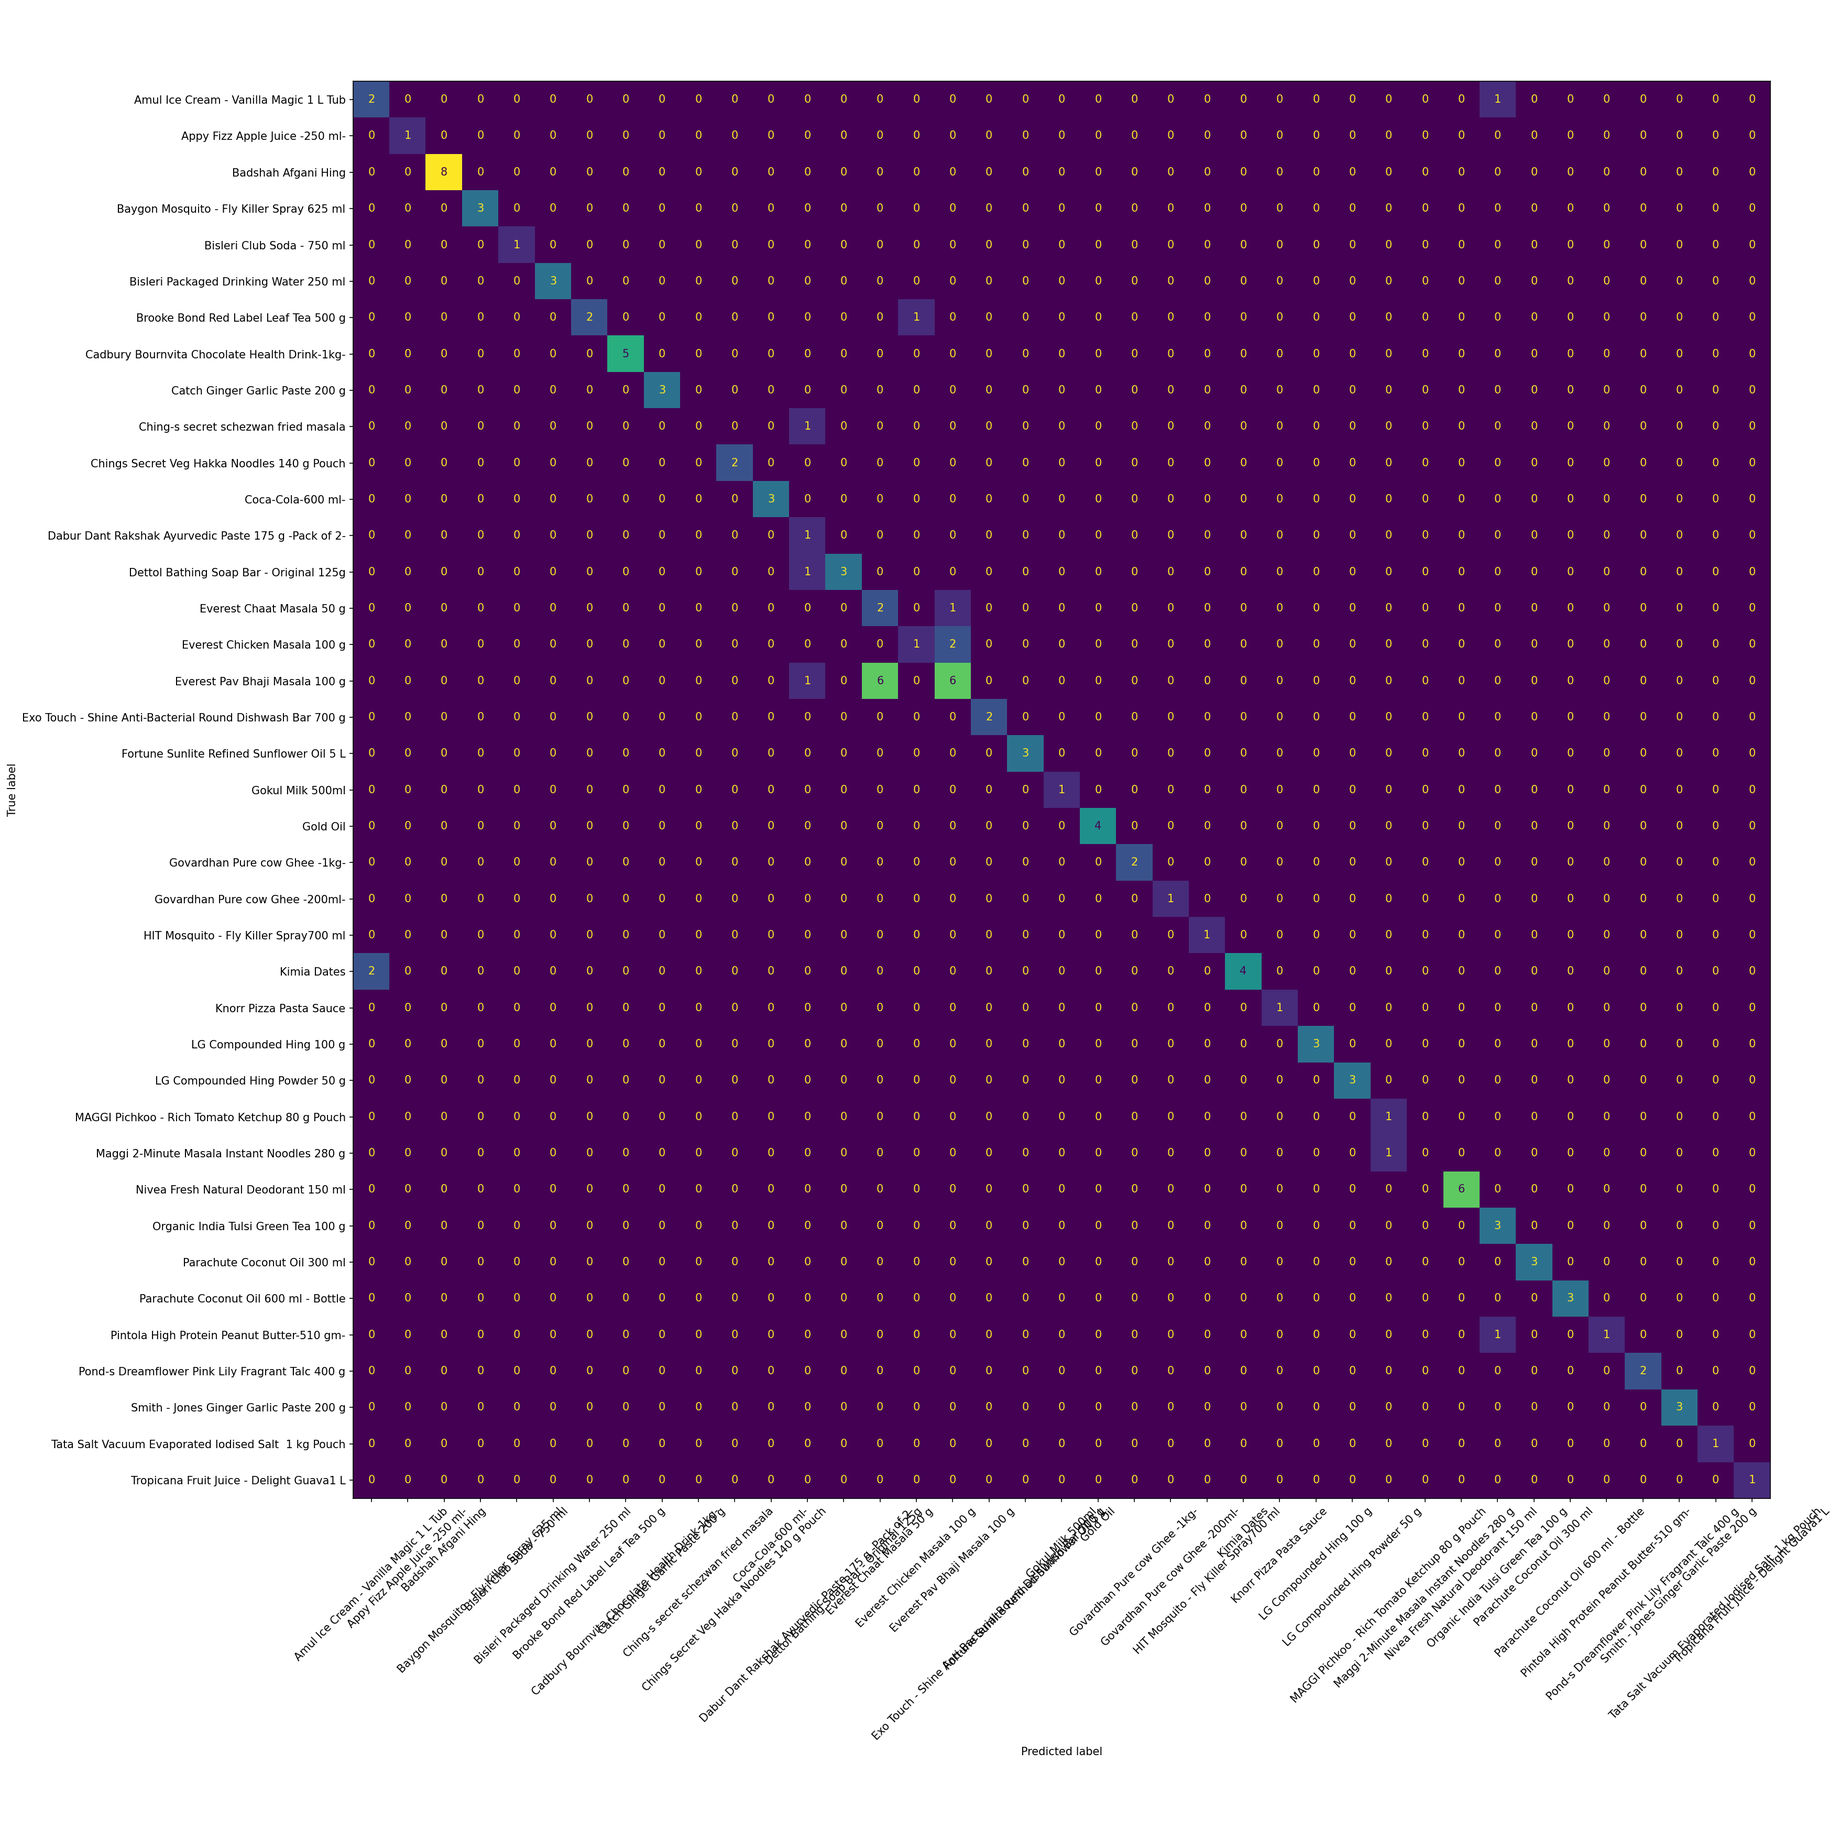
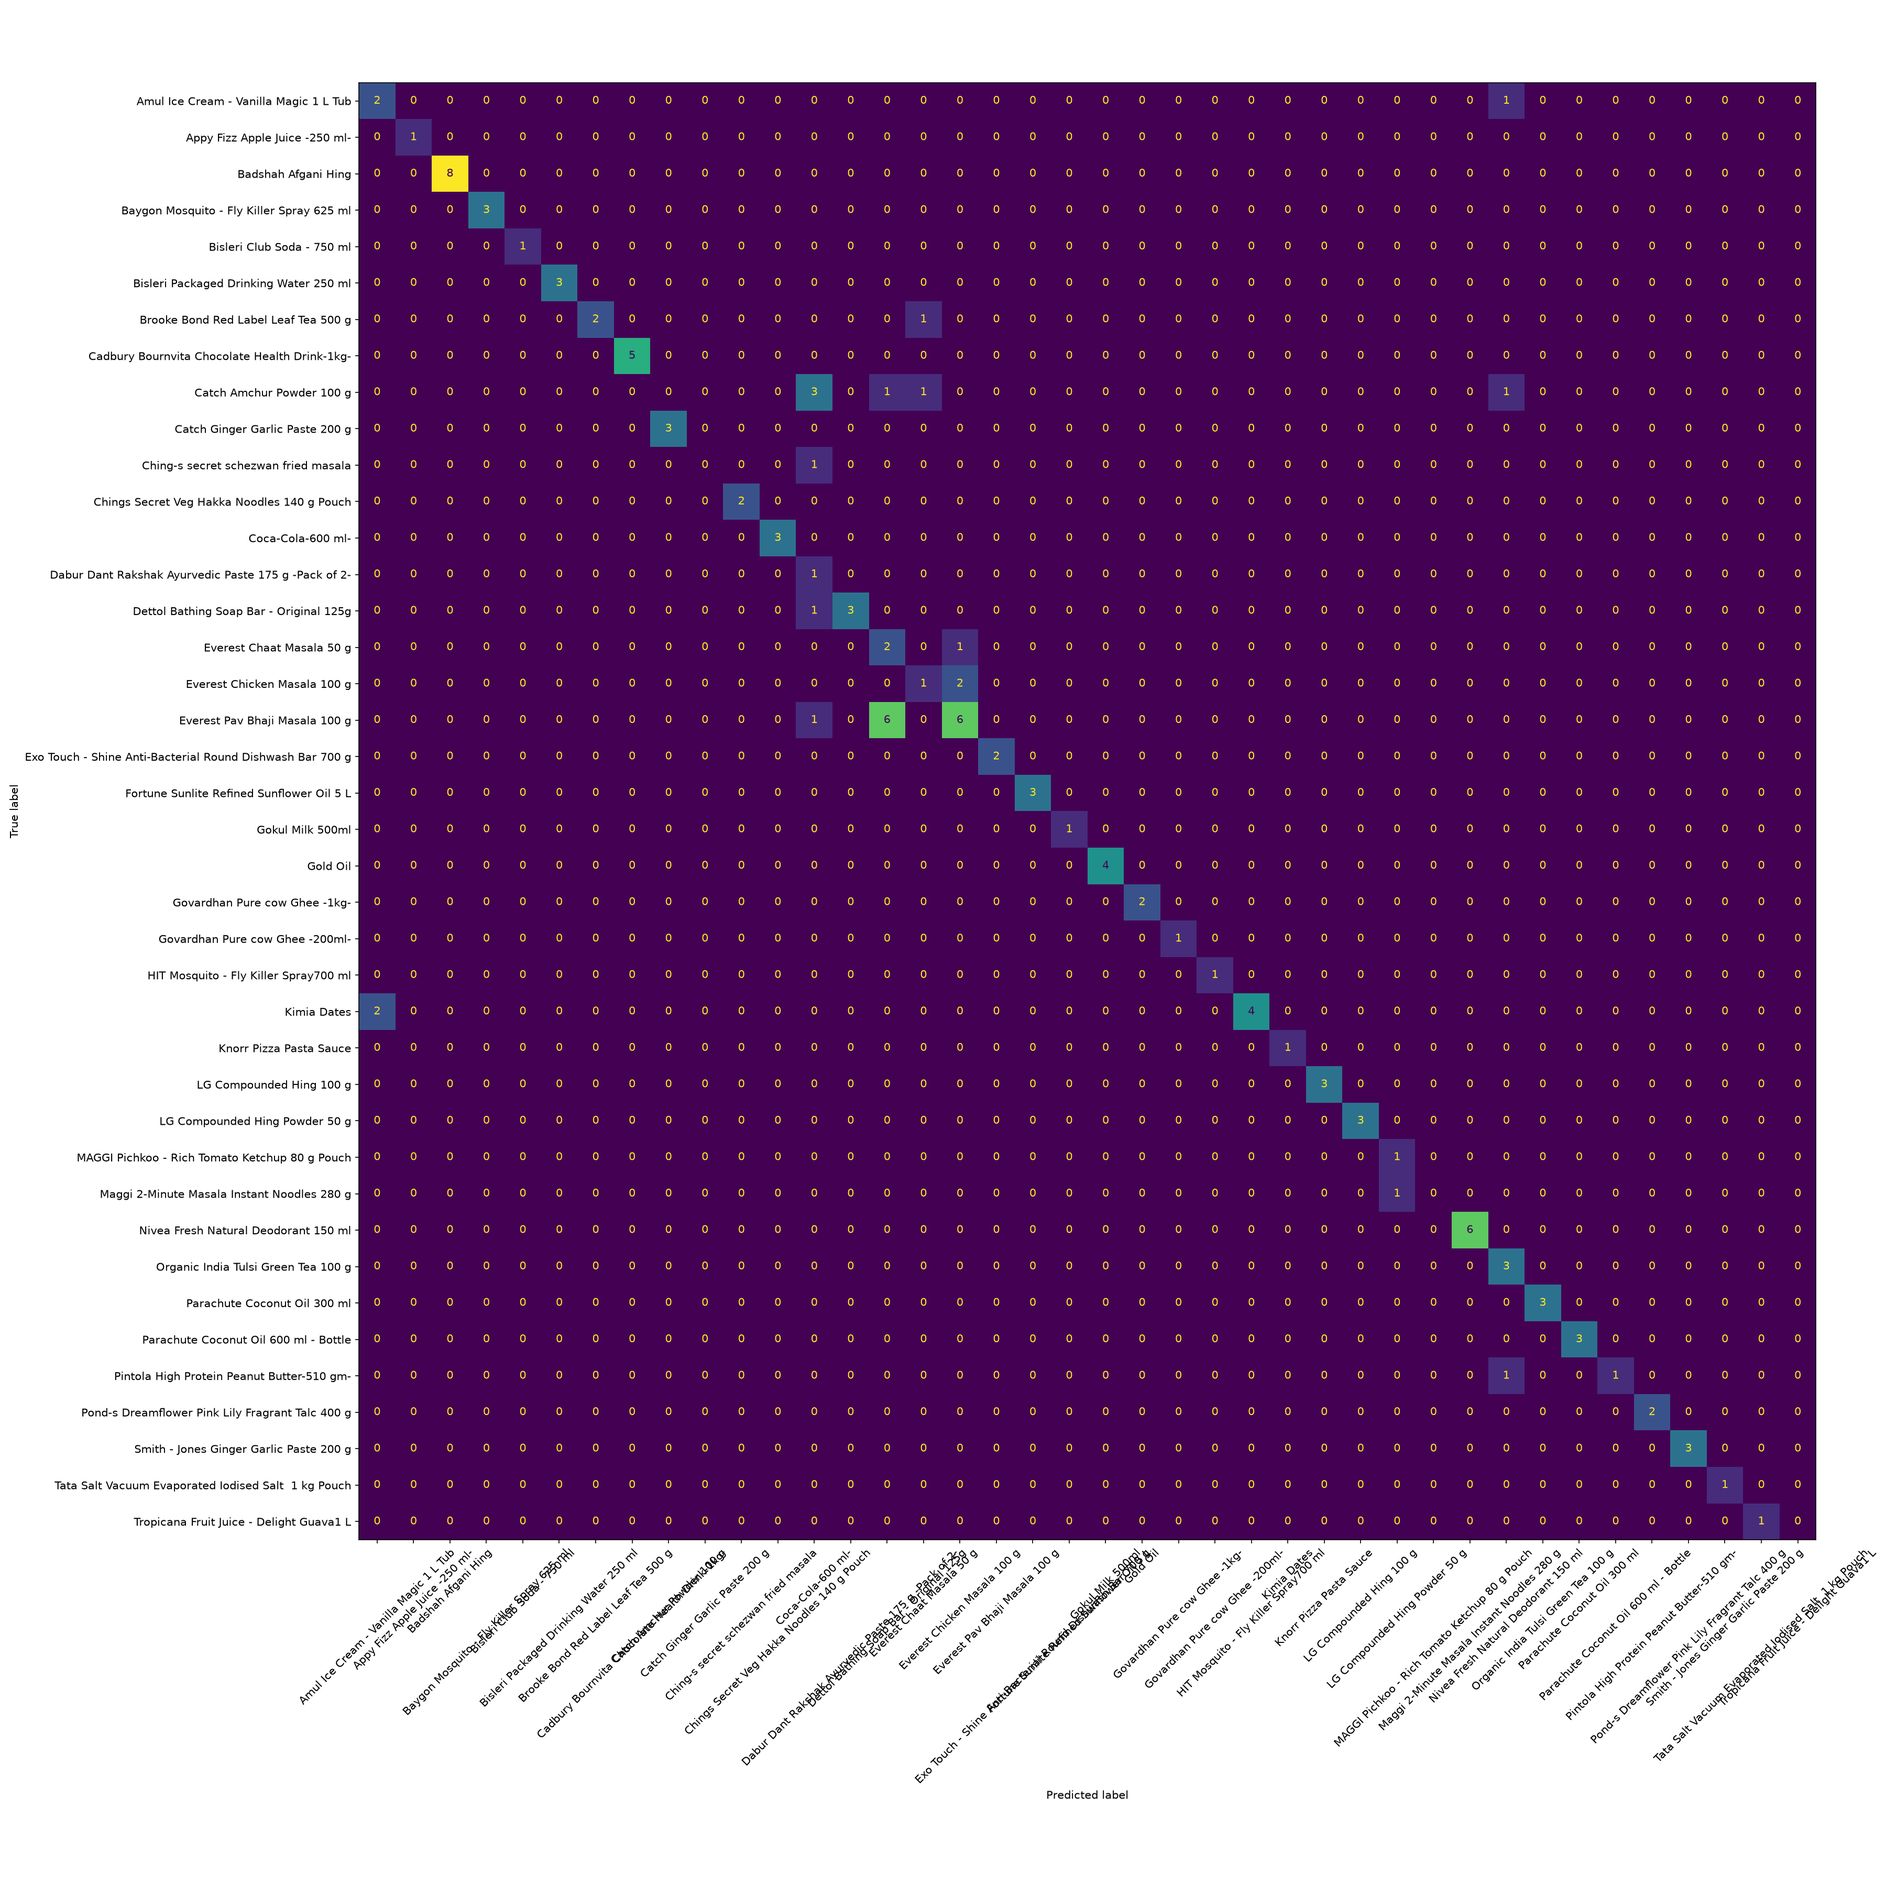
added results

diff --git a/src/05_generate_results.py b/src/05_generate_results.py
@@ -1,0 +1,337 @@
+"""
+05_generate_results.py
+
+Complete results generator for the self-checkout classifier project.
+Matches this project layout exactly:
+
+    self_checkout_project/
+      classification_dataset/
+        train/
+        val/
+        class_names.txt
+      models/
+        best_model.pth
+        class_names.txt
+        price_dict.txt
+      results/            <- outputs go here
+      src/
+        01_yolo_to_classification.py
+        02_eda.py
+        03_train_classifier_v2.py
+        04_pca_eval_compare.py
+        05_generate_results.py   <- put THIS file here
+
+Run from the PROJECT ROOT (not from src/):
+    cd "D:\\Machine Learning Project\\self_checkout_project\\self_checkout_project"
+    python src\\05_generate_results.py
+
+Outputs written to results/:
+    class_distribution.png
+    sample_grid.png
+    confusion_matrix.png
+    classification_report.txt
+    classification_report.csv
+    pca_scatter.png
+    pca_svm_comparison.txt
+"""
+
+import os
+import csv
+import random
+import numpy as np
+import matplotlib.pyplot as plt
+import torch
+import torch.nn as nn
+from torch.utils.data import DataLoader
+from torchvision import datasets, transforms, models
+from sklearn.decomposition import PCA
+from sklearn.svm import SVC
+from sklearn.model_selection import train_test_split
+from sklearn.metrics import (
+    confusion_matrix, classification_report, ConfusionMatrixDisplay, accuracy_score
+)
+
+# ----------------------------- CONFIG -----------------------------
+# All paths are relative to the PROJECT ROOT, matching your folder tree.
+CONFIG = {
+    "DATA_DIR": "classification_dataset",          # has train/ and val/
+    "MODEL_PATH": "models/best_model.pth",
+    "CLASS_NAMES_PATH": "models/class_names.txt",   # trained-on class list
+    "RESULTS_DIR": "results",
+    "IMG_SIZE": 224,
+    "BATCH_SIZE": 32,
+    "SAMPLES_PER_CLASS_GRID": 4,
+    "MAX_CLASSES_IN_GRID": 12,
+    "SEED": 42,
+}
+# --------------------------------------------------------------------
+
+random.seed(CONFIG["SEED"])
+np.random.seed(CONFIG["SEED"])
+torch.manual_seed(CONFIG["SEED"])
+
+device = torch.device("cuda" if torch.cuda.is_available() else "cpu")
+print(f"Using device: {device}")
+
+os.makedirs(CONFIG["RESULTS_DIR"], exist_ok=True)
+
+
+def load_class_names():
+    path = CONFIG["CLASS_NAMES_PATH"]
+    if not os.path.isfile(path):
+        raise FileNotFoundError(
+            f"Could not find {path}. Check CONFIG['CLASS_NAMES_PATH'] at the top "
+            f"of this script matches your actual project layout."
+        )
+    with open(path, "r") as f:
+        names = [line.strip() for line in f if line.strip()]
+    return names
+
+
+def build_model(num_classes):
+    model = models.resnet18(weights=None)
+    model.fc = nn.Linear(model.fc.in_features, num_classes)
+    state = torch.load(CONFIG["MODEL_PATH"], map_location=device)
+    model.load_state_dict(state)
+    model.to(device)
+    model.eval()
+    return model
+
+
+# ---------- 1. Class distribution ----------
+def plot_class_distribution(class_names):
+    print("\n[1/5] Class distribution...")
+    counts = {"train": {}, "val": {}}
+    for split in ["train", "val"]:
+        split_dir = os.path.join(CONFIG["DATA_DIR"], split)
+        for cls in class_names:
+            cls_dir = os.path.join(split_dir, cls)
+            n = len(os.listdir(cls_dir)) if os.path.isdir(cls_dir) else 0
+            counts[split][cls] = n
+
+    train_counts = [counts["train"][c] for c in class_names]
+    val_counts = [counts["val"][c] for c in class_names]
+
+    x = np.arange(len(class_names))
+    width = 0.4
+    fig, ax = plt.subplots(figsize=(max(10, len(class_names) * 0.5), 6))
+    ax.bar(x - width / 2, train_counts, width, label="train")
+    ax.bar(x + width / 2, val_counts, width, label="val")
+    ax.set_xticks(x)
+    ax.set_xticklabels(class_names, rotation=75, ha="right")
+    ax.set_ylabel("Image count")
+    ax.set_title("Class distribution (train vs val)")
+    ax.legend()
+    plt.tight_layout()
+    out_path = os.path.join(CONFIG["RESULTS_DIR"], "class_distribution.png")
+    plt.savefig(out_path, dpi=150)
+    plt.close()
+
+    nonzero_train = [c for c in train_counts if c > 0]
+    if not nonzero_train:
+        print(f"  WARNING: every class has 0 images in train/ under {CONFIG['DATA_DIR']}.")
+        print(f"  Check that CONFIG['CLASS_NAMES_PATH'] matches the folder names in "
+              f"{CONFIG['DATA_DIR']}/train — a mismatch here is the usual cause.")
+    else:
+        imbalance_ratio = max(nonzero_train) / min(nonzero_train)
+        print(f"  Saved {out_path}")
+        print(f"  Train imbalance ratio (max/min class count): {imbalance_ratio:.2f}")
+
+
+# ---------- 2. Sample grid ----------
+def plot_sample_grid(class_names):
+    print("\n[2/5] Sample image grid...")
+    from PIL import Image
+
+    classes_to_show = class_names[: CONFIG["MAX_CLASSES_IN_GRID"]]
+    n_per_class = CONFIG["SAMPLES_PER_CLASS_GRID"]
+
+    fig, axes = plt.subplots(
+        len(classes_to_show), n_per_class,
+        figsize=(n_per_class * 2, len(classes_to_show) * 2)
+    )
+    if len(classes_to_show) == 1:
+        axes = np.expand_dims(axes, 0)
+
+    for row, cls in enumerate(classes_to_show):
+        cls_dir = os.path.join(CONFIG["DATA_DIR"], "train", cls)
+        files = os.listdir(cls_dir) if os.path.isdir(cls_dir) else []
+        random.shuffle(files)
+        for col in range(n_per_class):
+            ax = axes[row][col]
+            ax.axis("off")
+            if col < len(files):
+                img = Image.open(os.path.join(cls_dir, files[col])).convert("RGB")
+                ax.imshow(img)
+            if col == 0:
+                ax.set_ylabel(cls, fontsize=8)
+                ax.axis("on")
+                ax.set_xticks([])
+                ax.set_yticks([])
+
+    plt.tight_layout()
+    out_path = os.path.join(CONFIG["RESULTS_DIR"], "sample_grid.png")
+    plt.savefig(out_path, dpi=150)
+    plt.close()
+    print(f"  Saved {out_path}")
+    if len(class_names) > CONFIG["MAX_CLASSES_IN_GRID"]:
+        print(f"  (showing first {CONFIG['MAX_CLASSES_IN_GRID']} of {len(class_names)} classes)")
+
+
+# ---------- Shared: load val set ----------
+def get_val_loader():
+    tf = transforms.Compose([
+        transforms.Resize((CONFIG["IMG_SIZE"], CONFIG["IMG_SIZE"])),
+        transforms.ToTensor(),
+        transforms.Normalize([0.485, 0.456, 0.406], [0.229, 0.224, 0.225]),
+    ])
+    val_dir = os.path.join(CONFIG["DATA_DIR"], "val")
+    if not os.path.isdir(val_dir):
+        raise FileNotFoundError(
+            f"{val_dir} not found. Check CONFIG['DATA_DIR'] matches your project layout."
+        )
+    val_ds = datasets.ImageFolder(val_dir, transform=tf)
+    val_loader = DataLoader(val_ds, batch_size=CONFIG["BATCH_SIZE"], shuffle=False)
+    return val_ds, val_loader
+
+
+def extract_predictions_and_features(model, val_loader):
+    feature_extractor = nn.Sequential(*list(model.children())[:-1])
+    feature_extractor.eval()
+
+    all_labels, all_preds, all_feats = [], [], []
+    with torch.no_grad():
+        for imgs, labels in val_loader:
+            imgs = imgs.to(device)
+            feats = feature_extractor(imgs).squeeze(-1).squeeze(-1)
+            logits = model.fc(feats)
+            preds = logits.argmax(dim=1).cpu().numpy()
+
+            all_labels.extend(labels.numpy())
+            all_preds.extend(preds)
+            all_feats.append(feats.cpu().numpy())
+
+    return (
+        np.array(all_labels),
+        np.array(all_preds),
+        np.concatenate(all_feats, axis=0),
+    )
+
+
+# ---------- 3. Confusion matrix + classification report ----------
+def plot_confusion_and_report(y_true, y_pred, class_names):
+    print("\n[3/5] Confusion matrix + classification report...")
+    cm = confusion_matrix(y_true, y_pred, labels=list(range(len(class_names))))
+
+    fig, ax = plt.subplots(figsize=(max(8, len(class_names) * 0.5), max(8, len(class_names) * 0.5)))
+    disp = ConfusionMatrixDisplay(confusion_matrix=cm, display_labels=class_names)
+    disp.plot(ax=ax, xticks_rotation=75, cmap="Blues", colorbar=True)
+    ax.set_title("Confusion Matrix (val set)")
+    plt.tight_layout()
+    out_path = os.path.join(CONFIG["RESULTS_DIR"], "confusion_matrix.png")
+    plt.savefig(out_path, dpi=150)
+    plt.close()
+    print(f"  Saved {out_path} (overwrote any existing file)")
+
+    report_txt = classification_report(y_true, y_pred, target_names=class_names, zero_division=0)
+    report_path_txt = os.path.join(CONFIG["RESULTS_DIR"], "classification_report.txt")
+    with open(report_path_txt, "w") as f:
+        f.write(report_txt)
+    print(f"  Saved {report_path_txt}")
+
+    report_dict = classification_report(
+        y_true, y_pred, target_names=class_names, zero_division=0, output_dict=True
+    )
+    report_path_csv = os.path.join(CONFIG["RESULTS_DIR"], "classification_report.csv")
+    with open(report_path_csv, "w", newline="") as f:
+        writer = csv.writer(f)
+        writer.writerow(["class", "precision", "recall", "f1-score", "support"])
+        for cls, metrics in report_dict.items():
+            if isinstance(metrics, dict):
+                writer.writerow([
+                    cls, f"{metrics['precision']:.4f}", f"{metrics['recall']:.4f}",
+                    f"{metrics['f1-score']:.4f}", metrics["support"]
+                ])
+    print(f"  Saved {report_path_csv}")
+
+    overall_acc = accuracy_score(y_true, y_pred)
+    print(f"  Overall val accuracy: {overall_acc * 100:.1f}%")
+    return overall_acc
+
+
+# ---------- 4/5. PCA scatter + SVM-on-PCA comparison ----------
+def pca_and_svm(features, y_true, cnn_acc, class_names):
+    print("\n[4/5] PCA scatter...")
+    pca = PCA(n_components=2, random_state=CONFIG["SEED"])
+    feats_2d = pca.fit_transform(features)
+
+    fig, ax = plt.subplots(figsize=(10, 8))
+    scatter = ax.scatter(feats_2d[:, 0], feats_2d[:, 1], c=y_true, cmap="tab20", s=15)
+    ax.set_title("PCA (2D) of penultimate-layer features — val set")
+    ax.set_xlabel(f"PC1 ({pca.explained_variance_ratio_[0]*100:.1f}% var)")
+    ax.set_ylabel(f"PC2 ({pca.explained_variance_ratio_[1]*100:.1f}% var)")
+
+    if len(class_names) <= 20:
+        handles, _ = scatter.legend_elements(num=len(class_names))
+        ax.legend(handles, class_names, bbox_to_anchor=(1.05, 1), loc="upper left", fontsize=7)
+
+    plt.tight_layout()
+    out_path = os.path.join(CONFIG["RESULTS_DIR"], "pca_scatter.png")
+    plt.savefig(out_path, dpi=150, bbox_inches="tight")
+    plt.close()
+    print(f"  Saved {out_path}")
+    print(f"  Total variance explained by 2 PCs: {sum(pca.explained_variance_ratio_)*100:.1f}%")
+
+    print("\n[5/5] SVM on 2D PCA features vs CNN...")
+    X_train, X_test, y_train, y_test = train_test_split(
+        feats_2d, y_true, test_size=0.3, random_state=CONFIG["SEED"], stratify=y_true
+    )
+    svm = SVC(kernel="rbf")
+    svm.fit(X_train, y_train)
+    svm_preds = svm.predict(X_test)
+    svm_acc = accuracy_score(y_test, svm_preds)
+
+    comparison_txt = (
+        f"CNN (ResNet18, 512-dim features) accuracy on full val set: {cnn_acc*100:.2f}%\n"
+        f"SVM (RBF kernel) on 2D PCA-reduced features, held-out split: {svm_acc*100:.2f}%\n\n"
+        f"Interpretation: the CNN uses the full 512-dim feature space and heavily "
+        f"outperforms the SVM restricted to only 2 PCA dimensions, which is expected — "
+        f"PCA-to-2D is used here for visualization and to demonstrate dimensionality "
+        f"reduction, not as the production classifier.\n"
+    )
+    out_path = os.path.join(CONFIG["RESULTS_DIR"], "pca_svm_comparison.txt")
+    with open(out_path, "w") as f:
+        f.write(comparison_txt)
+    print(f"  Saved {out_path}")
+    print("  " + comparison_txt.replace("\n", "\n  "))
+
+
+def main():
+    class_names = load_class_names()
+    print(f"Loaded {len(class_names)} classes from {CONFIG['CLASS_NAMES_PATH']}.")
+
+    plot_class_distribution(class_names)
+    plot_sample_grid(class_names)
+
+    model = build_model(len(class_names))
+    val_ds, val_loader = get_val_loader()
+
+    if val_ds.classes != class_names:
+        print("\n  WARNING: val folder class order != class_names.txt order/content.")
+        print("  This usually means the model's class list doesn't match the current")
+        print("  classification_dataset/val folders. Using val_ds.classes (the actual")
+        print("  folder names) so results are at least internally consistent — but if")
+        print("  best_model.pth was trained on a DIFFERENT class set, these results")
+        print("  will be meaningless. Retrain with src\\03_train_classifier_v2.py first")
+        print("  if class_names.txt in models/ and classification_dataset/ don't match.")
+        class_names = val_ds.classes
+
+    y_true, y_pred, feats = extract_predictions_and_features(model, val_loader)
+    cnn_acc = plot_confusion_and_report(y_true, y_pred, class_names)
+    pca_and_svm(feats, y_true, cnn_acc, class_names)
+
+    print(f"\nAll results saved to ./{CONFIG['RESULTS_DIR']}/")
+
+
+if __name__ == "__main__":
+    main()

diff --git a/src/04_pca_eval_compare.py b/src/04_pca_eval_compare.py
@@ -30,9 +30,9 @@ from sklearn.metrics import classification_report, confusion_matrix, ConfusionMa
 # ----------------------- CONFIG (edit if needed) -----------------------
 CONFIG = {
     "DATA_DIR": "classification_dataset",
-    "MODEL_PATH": "best_model.pth",
-    "CLASS_NAMES_PATH": "class_names.txt",
-    "OUT_DIR": ".",
+    "MODEL_PATH": "models/best_model.pth",
+    "CLASS_NAMES_PATH": "models/class_names.txt",
+    "OUT_DIR": "results",
     "IMG_SIZE": 224,
     "BATCH_SIZE": 32,
 }
